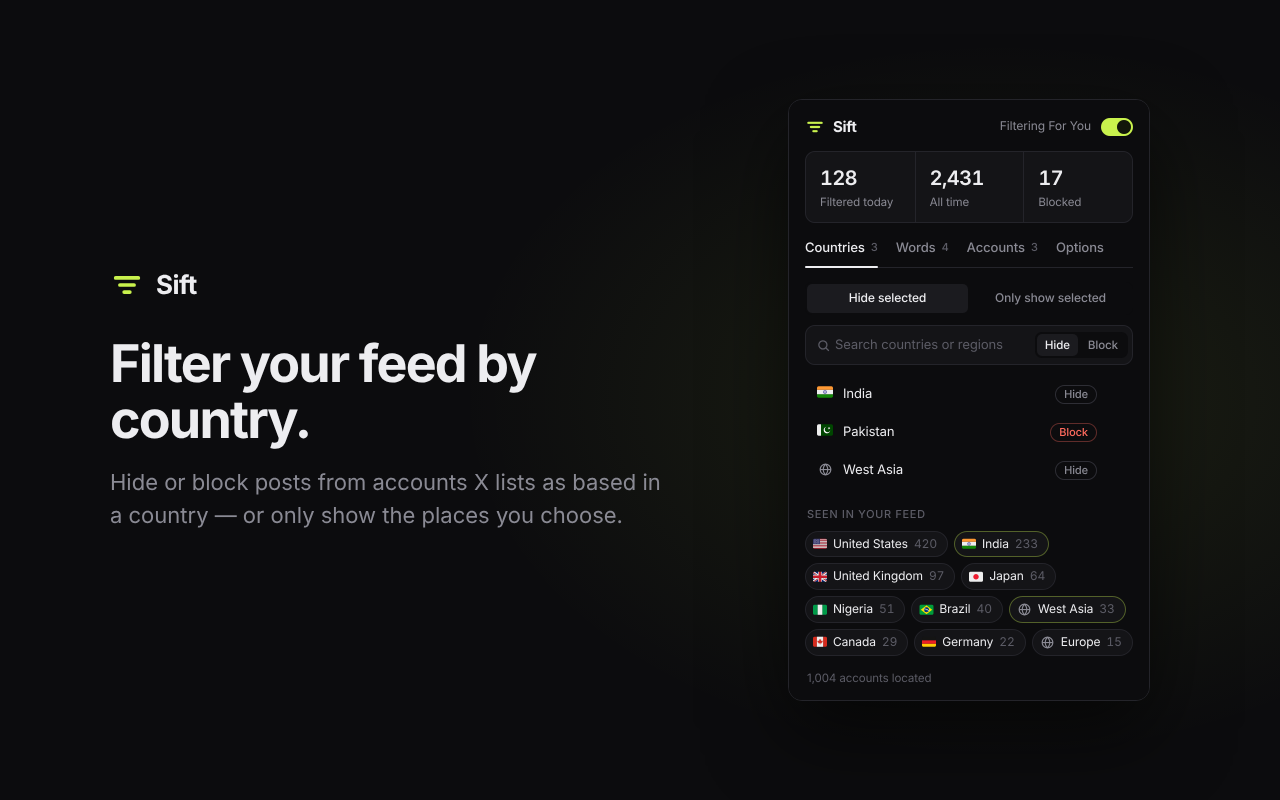
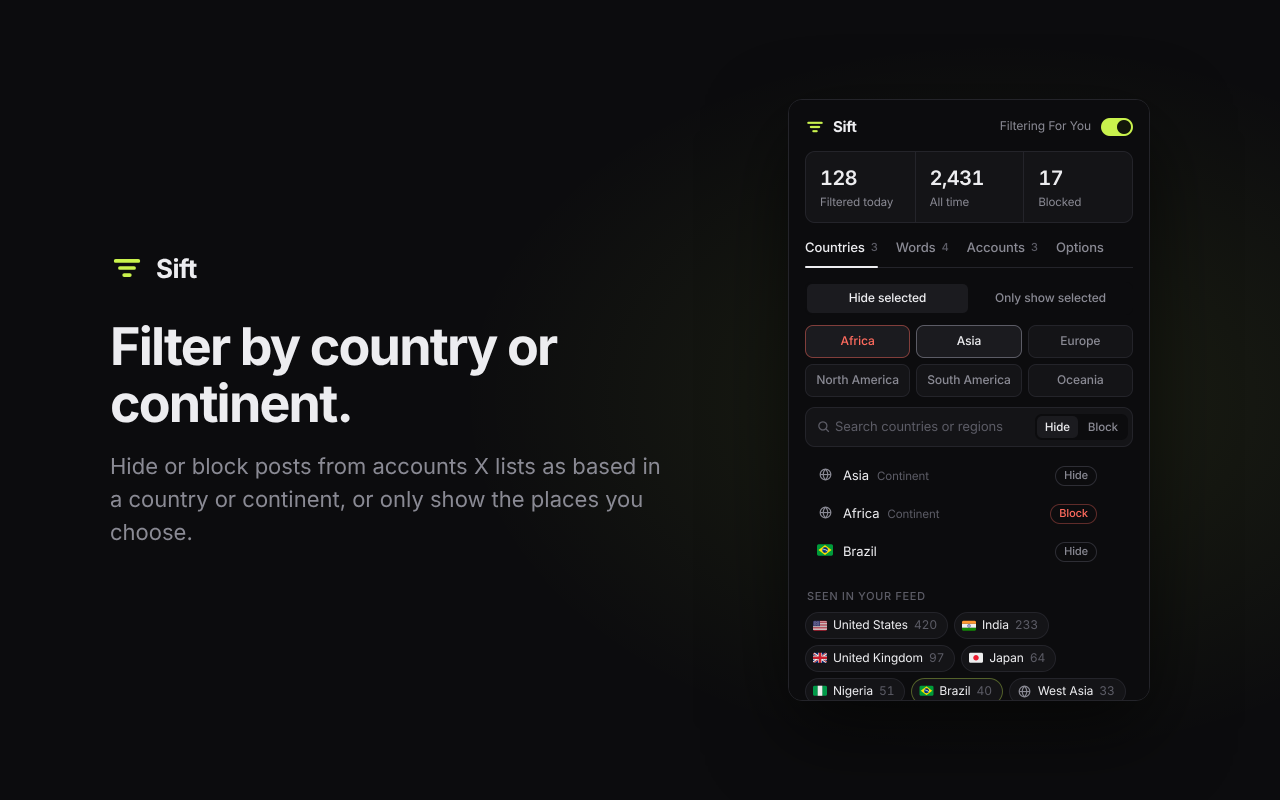
Add continent filtering
Countries tab gets one-click continent rules (Africa, Asia, Europe,
North America, South America, Oceania). X's region labels such as
"West Asia" map to their continent, and a specific country rule
overrides its continent. Works in both Hide and Only-show modes.

Also fixes a first-install race where the background script could
overwrite freshly saved settings with defaults.

Claude-Session: https://claude.ai/code/session_01QWNfnbUWv72dj1cqruosBs

diff --git a/popup.js b/popup.js
@@ -224,6 +224,12 @@
       const term = document.createElement("span");
       term.className = "term";
       term.textContent = siftGeoLabel(c.key, c.name);
+      if (c.key.startsWith("c:")) {
+        const note = document.createElement("span");
+        note.className = "kind";
+        note.textContent = "Continent";
+        term.append(note);
+      }
       const li = rowEl(term, S.countryMode === "only" ? "show" : c.action,
         () => { if (S.countryMode === "only") return; c.action = cycleWords[c.action] || "hide"; save(); renderCountries(); },
         () => { S.countries.splice(i, 1); save(); renderCountries(); });
@@ -235,6 +241,25 @@
       ? "Only posts from accounts based in the countries you add here will show. Everything else is filtered."
       : "Posts from accounts X lists as based in a country you add here are filtered out of your feed.";
     $("#cCountries").textContent = S.countries.length || "";
+
+    const cc = $("#continentChips");
+    cc.replaceChildren();
+    for (const [code, name] of SIFT_CONTINENTS) {
+      const key = "c:" + code;
+      const rule = S.countries.find(c => c.key === key);
+      const b = document.createElement("button");
+      b.type = "button";
+      b.className = "cont";
+      b.setAttribute("aria-pressed", !!rule);
+      if (rule) b.classList.add(S.countryMode === "only" ? "show" : rule.action);
+      b.textContent = name;
+      b.title = rule ? `Remove ${name}` : `Add all of ${name}`;
+      b.addEventListener("click", () => {
+        if (rule) { S.countries.splice(S.countries.indexOf(rule), 1); save(); renderCountries(); }
+        else addCountry(key, name);
+      });
+      cc.append(b);
+    }
 
     const seen = seenCounts().slice(0, 14);
     $("#seenWrap").hidden = seen.length === 0;
@@ -295,7 +320,11 @@
   function searchCountries(q) {
     const n = siftGeoNorm(q);
     if (!n) return [];
-    const all = [...geoTable.list.map(c => ({ key: c.code, name: c.name })), ...regionOptions()];
+    const all = [
+      ...SIFT_CONTINENTS.map(([code, name]) => ({ key: "c:" + code, name, kind: "Continent" })),
+      ...geoTable.list.map(c => ({ key: c.code, name: c.name })),
+      ...regionOptions()
+    ];
     const aliasHits = [...geoTable.byName.entries()].filter(([k]) => k.startsWith(n)).map(([, code]) => code);
     const scored = [];
     for (const c of all) {
@@ -337,6 +366,12 @@
       name.className = "r-name";
       name.textContent = c.name;
       li.append(flagEl(c.key), name);
+      if (c.kind && !S.countries.some(x => x.key === c.key)) {
+        const note = document.createElement("span");
+        note.className = "r-note";
+        note.textContent = c.kind;
+        li.append(note);
+      }
       if (S.countries.some(x => x.key === c.key)) {
         const note = document.createElement("span");
         note.className = "r-note";
@@ -439,7 +474,7 @@
         if (ex) ex.action = action; else S.users.push({ handle, action });
       }
       for (const c of Array.isArray(data.countries) ? data.countries : []) {
-        if (typeof c?.key !== "string" || !/^([A-Z]{2}|r:[a-z0-9 ]+)$/.test(c.key)) continue;
+        if (typeof c?.key !== "string" || !/^([A-Z]{2}|r:[a-z0-9 ]+|c:(AF|AS|EU|NA|SA|OC))$/.test(c.key)) continue;
         if (!S.countries.some(x => x.key === c.key)) {
           S.countries.push({ key: c.key, name: String(c.name || ""), action: c.action === "block" ? "block" : "hide" });
         }

diff --git a/geo.js b/geo.js
@@ -34,6 +34,48 @@ const SIFT_GEO_ALIASES = {
   "timor leste": "TL", "east timor": "TL", "kosovo": "XK"
 };
 
+const SIFT_CONTINENTS = [
+  ["AF", "Africa"], ["AS", "Asia"], ["EU", "Europe"],
+  ["NA", "North America"], ["SA", "South America"], ["OC", "Oceania"]
+];
+
+// Transcontinental countries use their most common assignment
+// (Russia → Europe, Türkiye → Asia, Egypt → Africa, Cyprus → Europe).
+const SIFT_CONTINENT_CODES = {
+  AF: "DZ AO BJ BW BF BI CV CM CF TD KM CG CD CI DJ EG GQ ER SZ ET GA GM GH GN GW KE LS LR LY MG MW ML MR MU YT MA MZ NA NE NG RE RW SH ST SN SC SL SO ZA SS SD TZ TG TN UG EH ZM ZW",
+  AS: "AF AM AZ BH BD BT BN KH CN GE HK IN ID IR IQ IL JP JO KZ KW KG LA LB MO MY MV MN MM NP KP OM PK PS PH QA SA SG KR LK SY TW TJ TH TL TR TM AE UZ VN YE CC CX IO",
+  EU: "AL AD AT BY BE BA BG HR CY CZ DK EE FO FI FR DE GI GR GG HU IS IE IM IT JE XK LV LI LT LU MT MD MC ME NL MK NO PL PT RO RU SM RS SK SI ES SJ SE CH UA GB VA AX CQ",
+  NA: "AI AG AW BS BB BZ BM BQ VG CA KY CR CU CW DM DO SV GL GD GP GT HT HN JM MQ MX MS NI PA PR BL KN LC MF PM VC SX TT TC US VI UM",
+  SA: "AR BO BR CL CO EC FK GF GY PY PE SR UY VE GS",
+  OC: "AS AU CK FJ PF GU KI MH FM NR NC NZ NU NF MP PW PG PN WS SB TK TO TV VU WF"
+};
+
+const _siftContinentOf = new Map();
+for (const [cont, codes] of Object.entries(SIFT_CONTINENT_CODES)) {
+  for (const c of codes.split(" ")) _siftContinentOf.set(c, cont);
+}
+
+// Continent for a rule key ("JP" or "r:west asia"), or null.
+function siftContinentOf(key) {
+  if (!key) return null;
+  if (/^[A-Z]{2}$/.test(key)) return _siftContinentOf.get(key) || null;
+  if (!key.startsWith("r:")) return null;
+  const r = key.slice(2);
+  if (/latin america/.test(r)) return null; // spans two continents
+  if (/south america/.test(r)) return "SA";
+  if (/north america|central america|caribbean/.test(r)) return "NA";
+  if (/africa/.test(r)) return "AF";
+  if (/europe/.test(r)) return "EU";
+  if (/asia|middle east/.test(r)) return "AS";
+  if (/oceania|pacific|australia/.test(r)) return "OC";
+  return null;
+}
+
+function siftContinentName(code) {
+  const c = SIFT_CONTINENTS.find(x => x[0] === code);
+  return c ? c[1] : code;
+}
+
 function siftGeoNorm(s) {
   return String(s || "")
     .normalize("NFKD").replace(/[̀-ͯ]/g, "")
@@ -98,5 +140,6 @@ function siftGeoResolve(text) {
 
 function siftGeoLabel(key, name) {
   if (/^[A-Z]{2}$/.test(key)) return siftGeoTable().names.get(key) || name || key;
+  if (key.startsWith("c:")) return siftContinentName(key.slice(2));
   return name || key.slice(2);
 }

diff --git a/content.js b/content.js
@@ -352,15 +352,17 @@
   function countryHit(handle) {
     const g = geoGet(handle);
     if (!g) return undefined;
+    const cont = siftContinentOf(g.k);
+    const label = cont ? `${siftGeoLabel(g.k, g.n)} · ${siftContinentName(cont)}` : siftGeoLabel(g.k, g.n);
+    // a specific country/region rule wins over its continent
+    const rule = g.k ? rules.countries.get(g.k) || (cont && rules.countries.get("c:" + cont)) : null;
+
     if (S.countryMode === "only") {
       if (!g.k) return S.hideUnknownCountry ? { reason: "country", label: "No location", action: "hide", handle } : null;
-      if (S.countries.length && !rules.countries.has(g.k)) {
-        return { reason: "country", label: siftGeoLabel(g.k, g.n), action: "hide", handle, key: g.k };
-      }
+      if (S.countries.length && !rule) return { reason: "country", label, action: "hide", handle, key: g.k };
       return null;
     }
-    const rule = g.k && rules.countries.get(g.k);
-    return rule ? { reason: "country", label: siftGeoLabel(g.k, g.n), action: rule.action, handle, key: g.k } : null;
+    return rule ? { reason: "country", label, action: rule.action, handle, key: g.k } : null;
   }
 
   // Returns a hit, null, or "wait" when the author's country isn't known yet.

diff --git a/popup.css b/popup.css
@@ -314,3 +314,20 @@ body.only .pick[data-for="country"] { display: none; }
 .geo-status { margin: 14px 2px 0; color: var(--faint); font-size: 11.5px; line-height: 1.5; }
 .geo-status .warn { color: #f2b84d; }
 .geo-status:empty { display: none; }
+
+.continents {
+  display: grid; grid-template-columns: repeat(3, 1fr); gap: 6px;
+  margin-bottom: 10px;
+}
+.cont {
+  padding: 7px 8px;
+  border: 1px solid var(--line); border-radius: 8px;
+  background: var(--surface); color: var(--muted);
+  font-size: 12px; font-weight: 500;
+  transition: border-color .12s ease, color .12s ease, background .12s ease;
+}
+.cont:hover { border-color: var(--line-2); color: var(--fg); }
+.cont[aria-pressed="true"] { color: var(--fg); background: var(--surface-2); border-color: var(--faint); }
+.cont.block { color: var(--danger); border-color: rgba(255, 107, 94, .45); }
+.cont.show { color: var(--accent); border-color: rgba(201, 242, 77, .45); }
+.term .kind { margin-left: 8px; color: var(--faint); font-size: 11.5px; }

diff --git a/popup.html b/popup.html
@@ -51,6 +51,7 @@
         <button type="button" data-v="hide">Hide selected</button>
         <button type="button" data-v="only">Only show selected</button>
       </div>
+      <div class="continents" id="continentChips" aria-label="Continents"></div>
       <div class="combo">
         <form class="adder" id="countryForm" autocomplete="off">
           <svg class="search" viewBox="0 0 24 24" aria-hidden="true"><circle cx="11" cy="11" r="6.5"/><path d="M16 16l4 4"/></svg>

diff --git a/background.js b/background.js
@@ -4,8 +4,8 @@ const MENU_HIDE = "sift-hide-account";
 const MENU_ALLOW = "sift-allow-account";
 
 chrome.runtime.onInstalled.addListener(async () => {
-  const current = await siftLoad();
-  await siftSave(current); // write defaults on first install
+  const { sift } = await chrome.storage.local.get("sift");
+  if (!sift) await siftSave({ ...SIFT_DEFAULTS }); // first install only
 
   chrome.contextMenus.removeAll(() => {
     const common = {

diff --git a/store/LISTING.md b/store/LISTING.md
@@ -10,7 +10,7 @@ Upload `dist/sift-1.0.0.zip` (create it with `build.ps1`).
 **Name** (taken from the manifest): Sift — Country & Keyword Filter for X
 
 **Summary** (max 132 characters):
-Filter your X For You feed by country, words and accounts. Hide posts or auto-block the accounts behind them.
+Filter your X For You feed by country, continent, words and accounts. Hide posts or auto-block the accounts behind them.
 
 **Category:** Social & Communication
 **Language:** English
@@ -19,8 +19,8 @@ Filter your X For You feed by country, words and accounts. Hide posts or auto-bl
 ```
 Sift cleans up your X (Twitter) For You feed.
 
-FILTER BY COUNTRY
-X shows where an account is based in its "About this account" panel. Sift reads that for each author in your feed. Then it either hides posts from the countries and regions you pick, or shows only the ones you allow. A small flag next to each post shows where it's from.
+FILTER BY COUNTRY OR CONTINENT
+X shows where an account is based in its "About this account" panel. Sift reads that for each author in your feed. Then it either hides posts from the countries, regions or whole continents you pick, or shows only the ones you allow. A small flag next to each post shows where it's from.
 
 FILTER BY WORDS AND ACCOUNTS
 • Words, phrases or /regex/, with whole-word matching
@@ -57,7 +57,7 @@ Not affiliated with X Corp.
 
 **Single purpose:**
 ```
-Filters posts on the X (Twitter) home timeline based on the user's own rules: the account's country, words in the post, and specific accounts.
+Filters posts on the X (Twitter) home timeline based on the user's own rules: the account's country or continent, words in the post, and specific accounts.
 ```
 
 **Permission justifications:**

diff --git a/README.md b/README.md
@@ -4,7 +4,7 @@
 
 <h1 align="center">Sift</h1>
 
-<p align="center">Filter your X For You feed by country, words and accounts.</p>
+<p align="center">Filter your X For You feed by country, continent, words and accounts.</p>
 
 <p align="center">
   <img src="store/screenshot-1-countries.png" width="760" alt="Sift popup showing country rules">
@@ -12,7 +12,8 @@
 
 ## Features
 
-- **Country filtering.** X shows where an account is based in its *About this account* panel. Sift reads that for each author in your feed. Then it either hides or blocks posts from the countries and regions you pick, or shows only the ones you allow.
+- **Country filtering.** X shows where an account is based in its *About this account* panel. Sift reads that for each author in your feed. Then it either hides or blocks posts from the countries, regions or whole continents you pick, or shows only the ones you allow.
+- **Continents.** One click covers Africa, Asia, Europe, North America, South America or Oceania, including the regions X reports, like "West Asia". A rule for a specific country overrides its continent.
 - **Flags on posts.** A small flag next to each post's timestamp. It renders properly on Windows too.
 - **Word rules.** Words, phrases or `/regex/`. Matching is whole-word, so `crypto` won't catch "cryptography".
 - **Account rules.** Hide, block or always allow specific accounts. You can also right-click any profile link on X.
